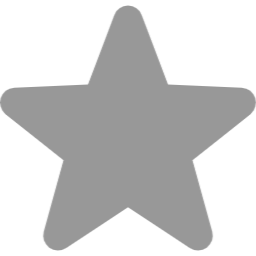
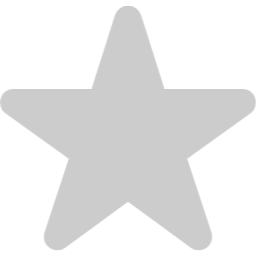
UI修正

diff --git a/frontend/src/components/Map.tsx b/frontend/src/components/Map.tsx
@@ -21,6 +21,7 @@ import pen from "../assets/pen.png";
 import garbage from "../assets/garbage.png";
 import check from "../assets/check.png";
 import back from "../assets/back.png";
+import heartGray from "../assets/heartGray.png";
 import { formatDateToYYYYMMDD } from "../utils/format";
 import React from "react";
 
@@ -302,7 +303,7 @@ export default function Map({ posts, onAddPost, id }: MapProps) {
                                                 </div>
                                             ))}
 
-                                        {isLoggedIn && (
+                                        {isLoggedIn ? (
                                             <div className="post-like">
                                                 <button
                                                     onClick={(e) => {
@@ -325,6 +326,14 @@ export default function Map({ posts, onAddPost, id }: MapProps) {
                                                         />
                                                     )}
                                                 </button>
+                                                <p>{post.like_count}</p>
+                                            </div>
+                                        ) :(
+                                            <div className="post-like">
+                                                <img
+                                                    src={heartGray}
+                                                    className="heart-gray-img"
+                                                />
                                                 <p>{post.like_count}</p>
                                             </div>
                                         )}

diff --git a/frontend/src/components/TopicList.tsx b/frontend/src/components/TopicList.tsx
@@ -8,6 +8,7 @@ import { formatDateToYYYYMMDDHHMM } from "../utils/format";
 import search from "../assets/search.png";
 import starFrame from "../assets/starFrame.png";
 import starYellow from "../assets/starYellow.png";
+import starGray from "../assets/starGray.png";
 
 export default function TopicList() {
     const { isLoggedIn, setIsLoggedIn } = useContext(AuthContext);
@@ -106,7 +107,7 @@ export default function TopicList() {
                                     {formatDateToYYYYMMDDHHMM(topic.created_at)}
                                 </p>
                             </div>
-                            {isLoggedIn && (
+                            {isLoggedIn ? (
                                 <div className="topic-item-info-likes">
                                     <button
                                         onClick={(e) => {
@@ -129,6 +130,11 @@ export default function TopicList() {
                                             />
                                         )}
                                     </button>
+                                    <p>{topic.like_count}</p>
+                                </div>
+                            ) : (
+                                <div className="topic-item-info-likes">
+                                    <img src={starGray} className="star-img" />
                                     <p>{topic.like_count}</p>
                                 </div>
                             )}

diff --git a/frontend/src/general.css b/frontend/src/general.css
@@ -757,6 +757,12 @@ details[open] summary::before {
   height: auto;
 }
 
+.heart-gray-img {
+  width: 20px;
+  height: 20px !important;
+  margin: auto;
+}
+
 .topic-buttons {
   display: flex;
   justify-content: flex-end;

diff --git a/api/internal/tokens/tokengen.go b/api/internal/tokens/tokengen.go
@@ -2,12 +2,12 @@ package token
 
 import (
 	"context"
+	"fmt"
 	"log"
 	"os"
 	"time"
 
 	"github.com/daiki-trnsk/map-sns/pkg/database"
-
 
 	jwt "github.com/dgrijalva/jwt-go"
 	"go.mongodb.org/mongo-driver/bson"
@@ -72,6 +72,7 @@ func ValidateToken(signedtoken string) (claims *SignedDetails, msg string) {
 	}
 	if claims.ExpiresAt < time.Now().Local().Unix() {
 		msg = "token is expired"
+		fmt.Println("token is expired")
 		return
 	}
 	return claims, msg
